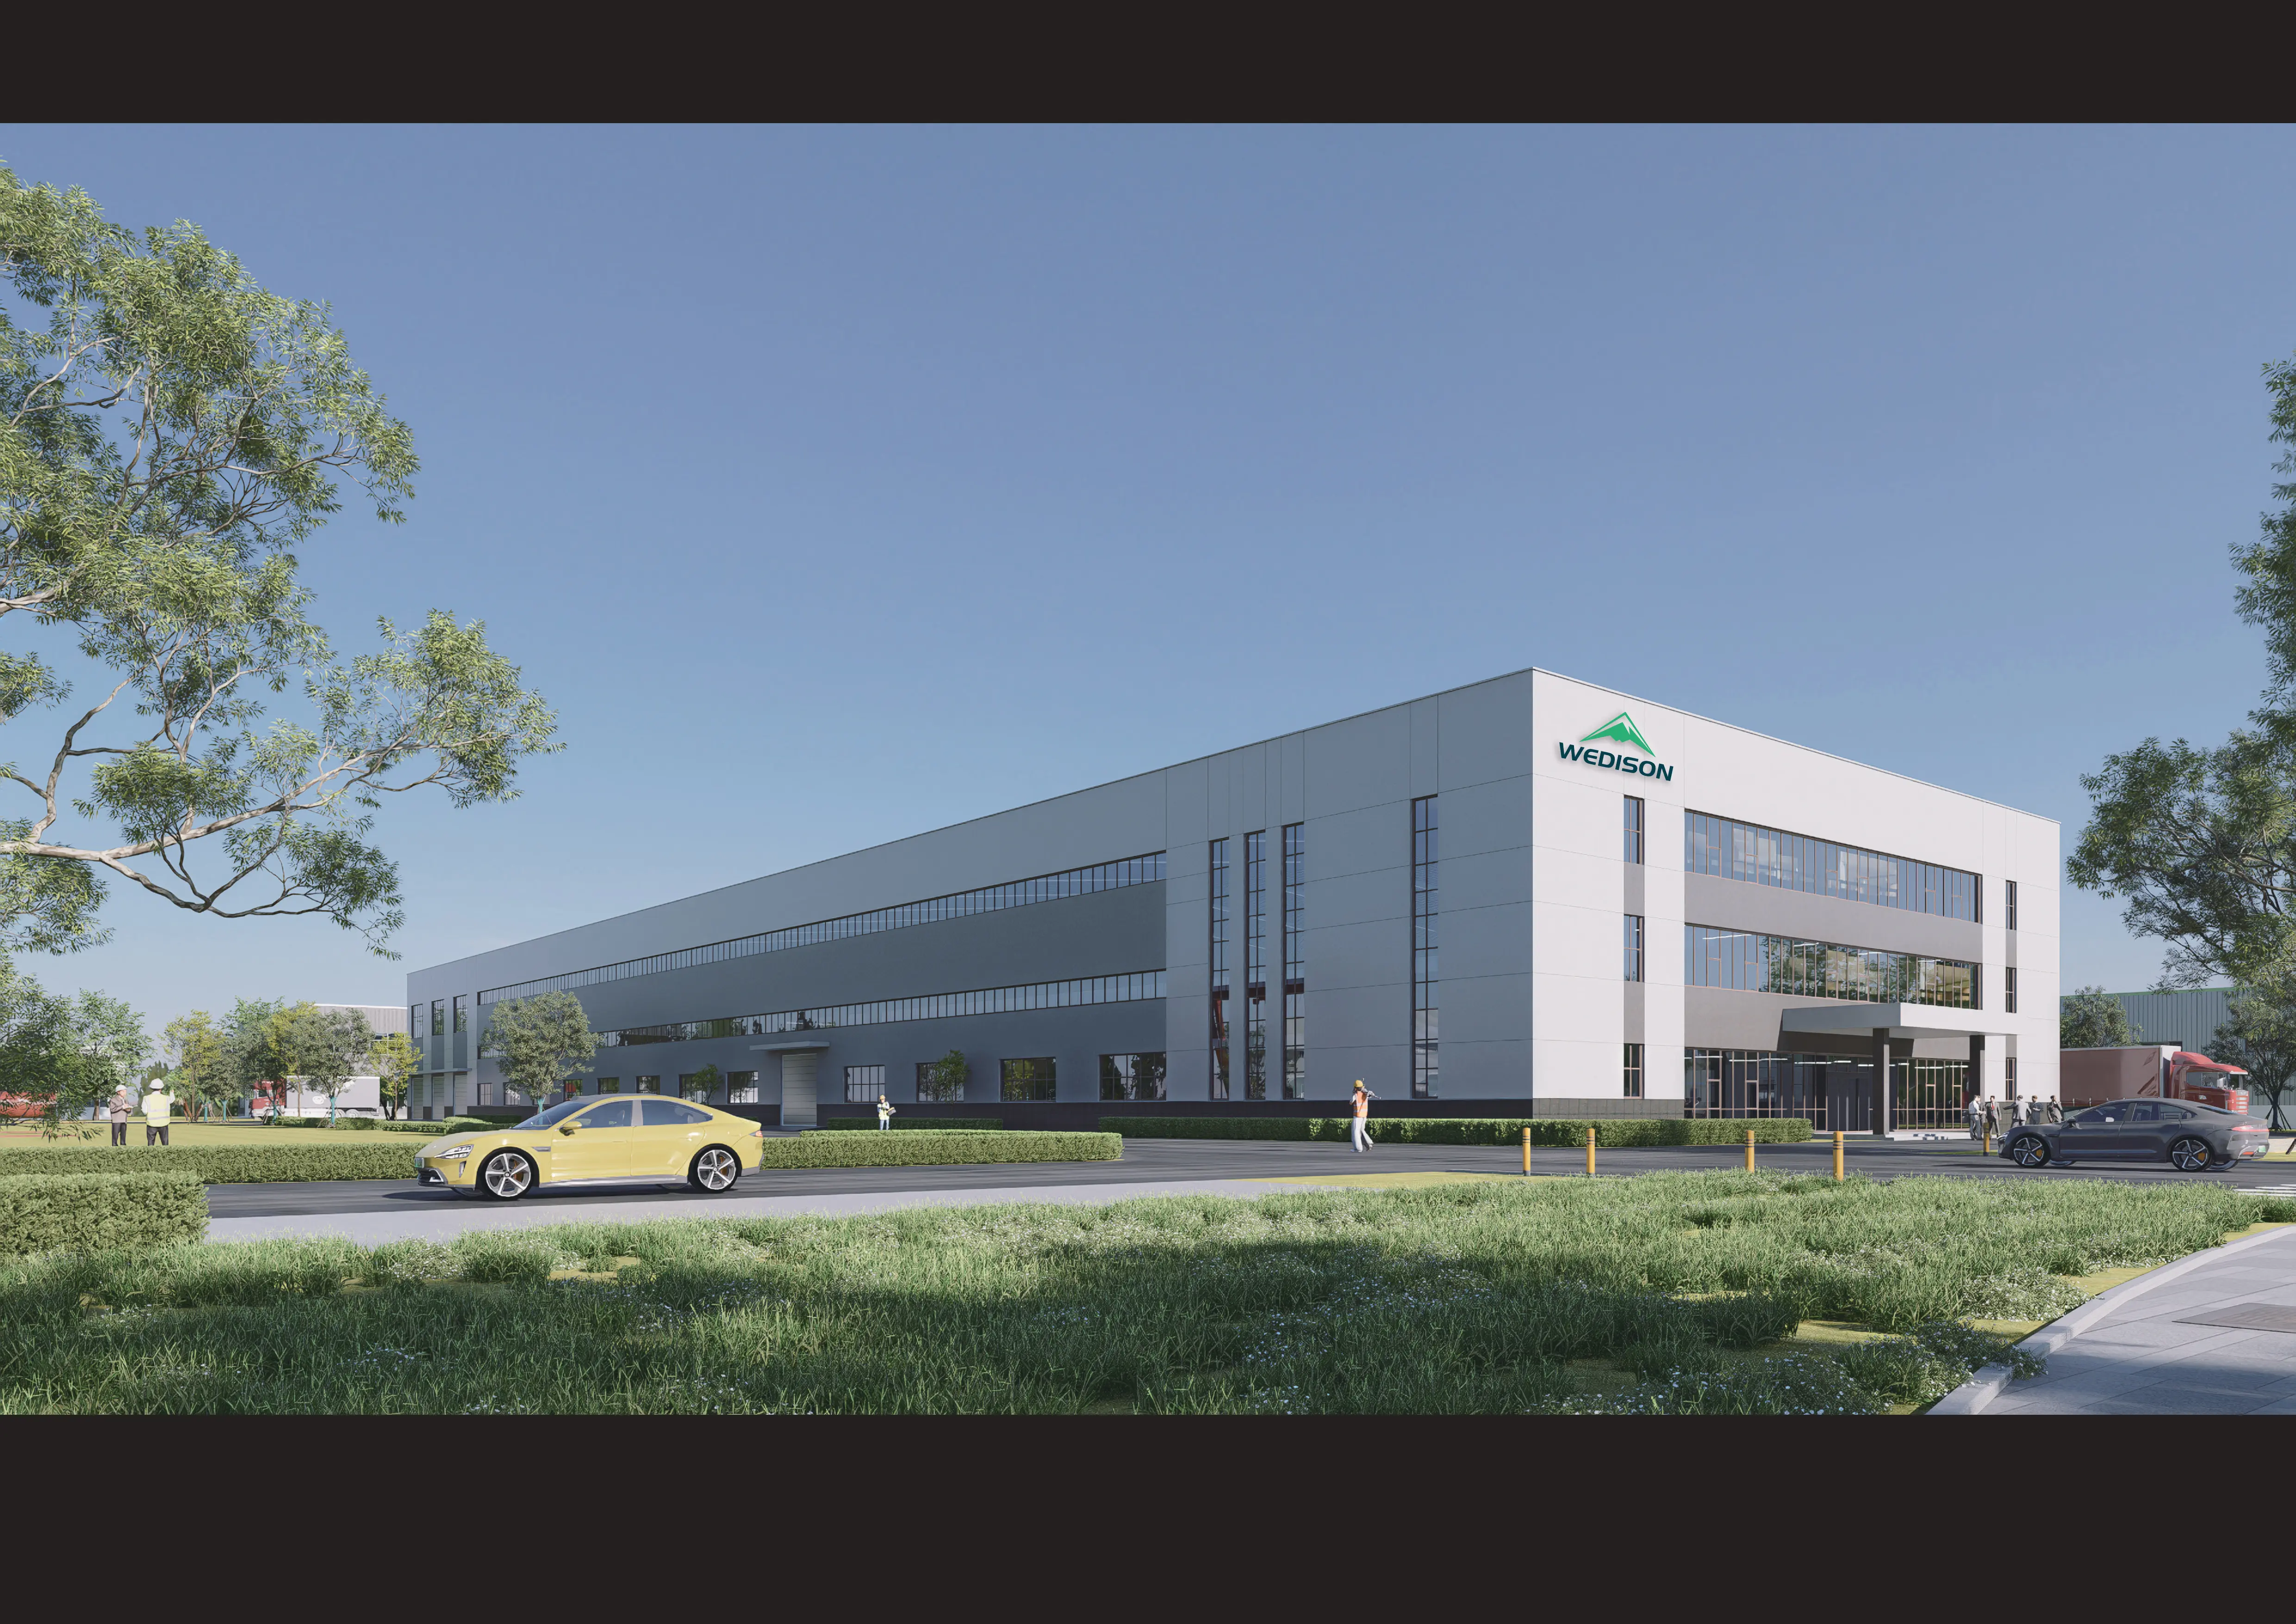
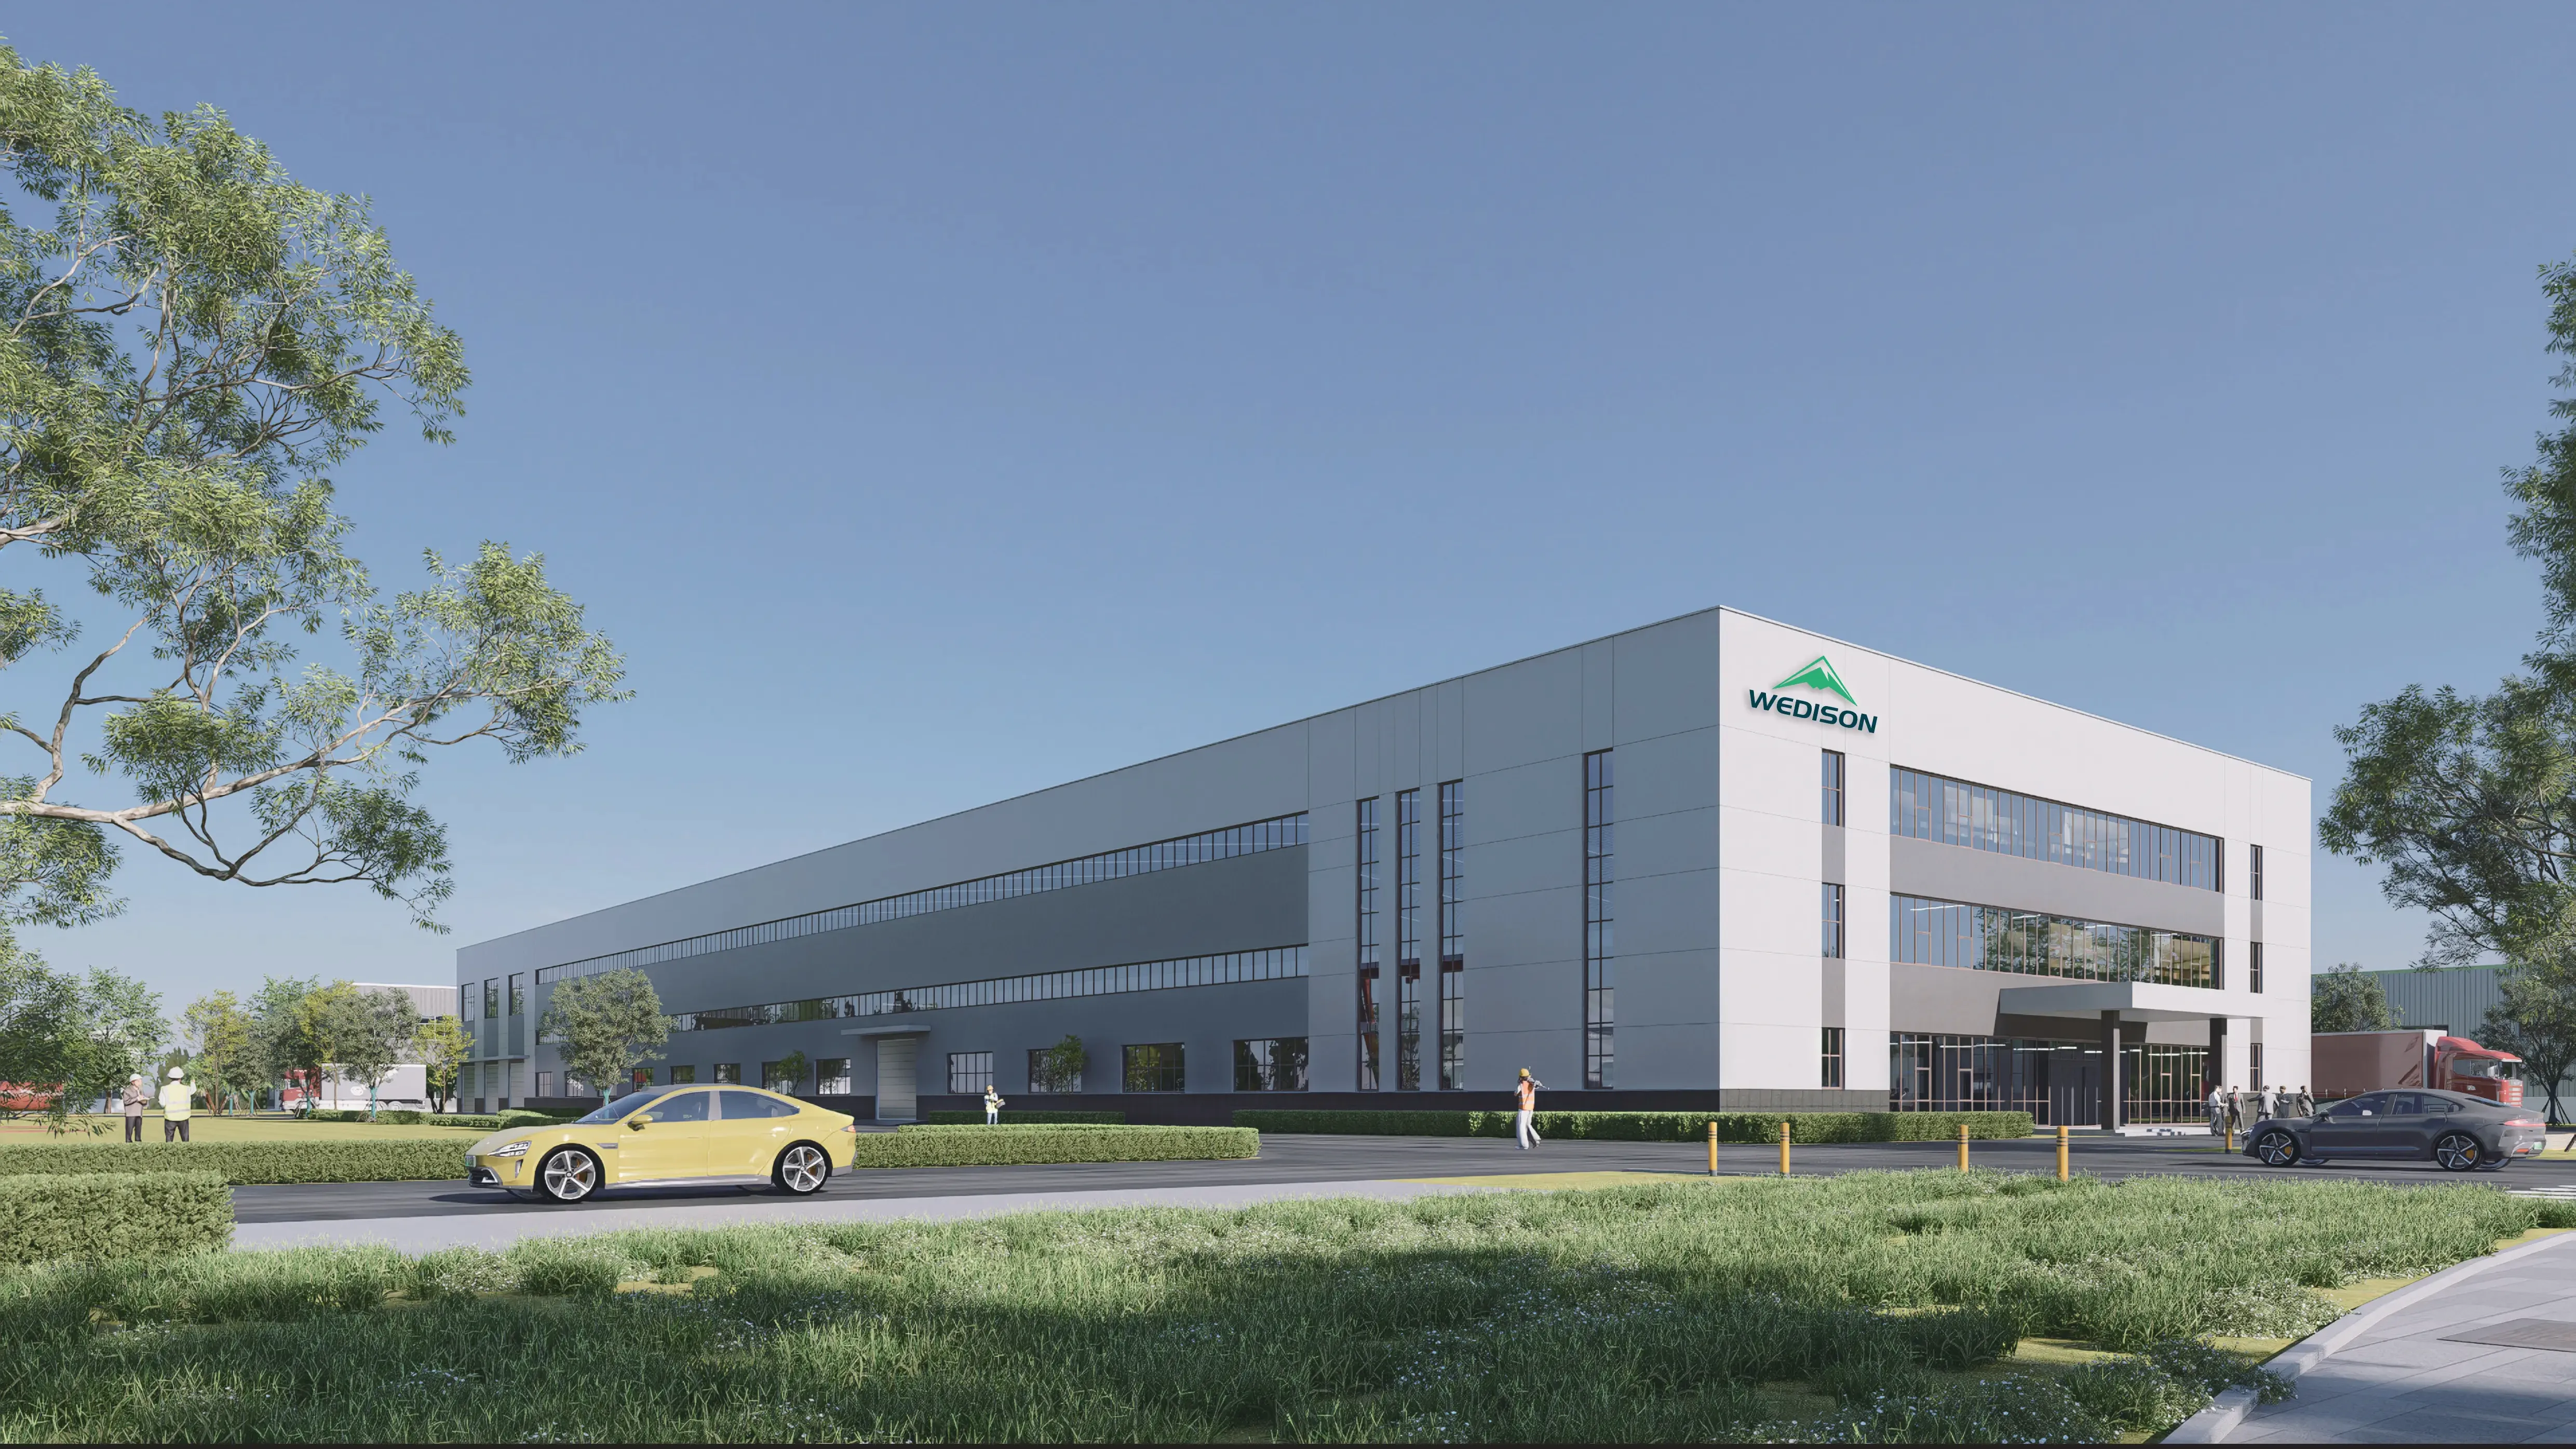
Responsive design fixing

diff --git a/src/app/corporate/about/structure.tsx b/src/app/corporate/about/structure.tsx
@@ -49,16 +49,16 @@ export default function AboutPage() {
   return (
     <main className="min-h-screen bg-white">
       {/* Hero Section with Image */}
-      <section className="pt-0 md:pt-24 bg-gradient-to-b from-gray-50 to-white">
-        <div className="container mx-auto px-4 sm:px-6 lg:px-8 py-16 md:py-20 lg:py-24">
+      <section className="pt-0 2xl:pt-24 bg-gradient-to-b from-gray-50 to-white">
+        <div className="container mx-auto px-4 sm:px-6 lg:px-8 py-16 md:py-20 lg:py-16">
           <div className="grid grid-cols-1 lg:grid-cols-2 gap-8 md:gap-12 items-center">
             <div>
-              <div className="text-center mb-8 md:mb-12">
+              <div className="text-center mb-8 md:mb-0">
                 <div className="inline-block px-4 py-1 mb-4 border border-teal-200 rounded-full bg-teal-50 text-teal-600">
                   <span className="text-sm font-medium">{t("about.tag")}</span>
                 </div>
 
-                <h1 className="text-3xl sm:text-4xl md:text-5xl lg:text-6xl font-bold text-gray-900 mb-6">
+                <h1 className="text-3xl sm:text-4xl md:text-4xl 2xl:text-6xl font-bold text-gray-900 mb-6">
                   {t("about.title")}{" "}
                   <span className="bg-gradient-to-r from-teal-500 to-teal-400 bg-clip-text text-transparent relative">
                     {t("about.titleHighlight")}
@@ -67,14 +67,14 @@ export default function AboutPage() {
                 </h1>
               </div>
 
-              <div className="bg-white rounded-xl shadow-soft p-6 md:p-8">
-                <h2 className="text-2xl md:text-3xl font-bold text-gray-900 mb-4 bg-gradient-to-r from-teal-500 to-teal-400 bg-clip-text">
+              <div className="bg-white rounded-xl shadow-soft p-6 2xl:p-8">
+                <h2 className="text-xl 2xl:text-3xl font-bold text-gray-900 mb-4 bg-gradient-to-r from-teal-500 to-teal-400 bg-clip-text">
                   {t("about.overview.title")}
                 </h2>
-                <p className="text-gray-700 mb-4 text-base md:text-lg leading-relaxed">
+                <p className="text-gray-700 mb-4 text-base 2xl:text-lg leading-relaxed">
                   {t("about.overview.p1")}
                 </p>
-                <p className="text-gray-700 text-base md:text-lg leading-relaxed">
+                <p className="text-gray-700 text-base 2xl:text-lg leading-relaxed">
                   {t("about.overview.p2")}
                 </p>
               </div>
@@ -86,7 +86,7 @@ export default function AboutPage() {
               <Image
                 src={"/wedison-factory.webp"}
                 alt=" Wedison Factory"
-                className="w-full h-full object-fill object-center z-50"
+                className="w-full h-full object-cover object-center z-50"
                 width={9000}
                 height={1000}
               />

diff --git a/src/app/components/hero-section.tsx b/src/app/components/hero-section.tsx
@@ -43,7 +43,7 @@ export default function HeroSection({
         width={9000}
         height={1000}
         className={cn(
-          "object-cover inset-0 h-[100vh] lg:object-[0%_100%] object-[75%_100%]",
+          "object-cover inset-0 h-[100vh] 2xl:object-[80%_100%] object-[75%_75%]",
           imageStyle
         )}
       />
@@ -53,10 +53,10 @@ export default function HeroSection({
       {/* Hero content */}
       <div className="container mx-auto px-4 sm:px-6 lg:px-8 absolute z-20 left-0 md:left-15">
         {/* <div className="container mx-auto px-4 sm:px-6 lg:px-8 relative z-10"> */}
-        <div className=" grid grid-cols-1 lg:grid-cols-2 gap-8 md:gap-12 items-center pb-20">
+        <div className=" grid grid-cols-1 lg:grid-cols-[1fr_2fr] 2xl:grid-cols-2 gap-8 md:gap-12 items-center pb-20">
           <div
             className={cn(
-              "transition-all duration-1000 transform order-1 lg:order-0",
+              "transition-all duration-1000 transform order-1 lg:order-0 ",
               isVisible
                 ? "opacity-100 translate-y-0"
                 : "opacity-0 translate-y-16"
@@ -75,12 +75,13 @@ export default function HeroSection({
 
             <h1
               className={cn(
-                "text-3xl sm:text-4xl md:text-5xl lg:text-6xl font-bold leading-tight text-white mb-4 md:mb-6",
+                "text-3xl sm:text-4xl md:text-4xl lg:text-4xl 2xl:text-6xl font-bold leading-tight text-white mb-4 md:mb-6",
+                // "text-3xl sm:text-4xl md:text-5xl lg:text-6xl font-bold leading-tight text-white mb-4 md:mb-6",
                 theme === "dark" ? dark.titleStyle : light.titleStyle
               )}
             >
               {t(`${name}.hero.title`)}{" "}
-              <span className="bg-gradient-to-r from-teal-500 to-teal-400 bg-clip-text text-transparent relative">
+              <span className="bg-gradient-to-r from-teal-400 to-teal-300 bg-clip-text text-transparent relative">
                 {t(`${name}.hero.titleHighlight`)}
                 <span className="absolute -bottom-1 left-0 w-full h-0.5 bg-teal-400"></span>
               </span>
@@ -88,7 +89,8 @@ export default function HeroSection({
 
             <p
               className={cn(
-                "text-base sm:text-lg md:text-xl text-gray-300 mb-6 md:mb-8 max-w-lg",
+                "text-base sm:text-md md:text-lg 2xl:text-xl text-gray-300 mb-6 md:mb-8 max-w-lg",
+                // "text-base sm:text-lg md:text-xl text-gray-300 mb-6 md:mb-8 max-w-lg",
                 theme === "dark"
                   ? dark.descriptionStyle
                   : light.descriptionStyle

diff --git a/src/app/components/hero2.tsx b/src/app/components/hero2.tsx
@@ -45,7 +45,7 @@ export default function Hero() {
               <span className="text-sm font-medium">{t("hero.tag")}</span>
             </div>
 
-            <h1 className="text-3xl sm:text-4xl md:text-5xl lg:text-6xl font-bold leading-tight text-gray-900 mb-4 md:mb-6">
+            <h1 className="text-3xl sm:text-4xl md:text-5xl 2xl:text-6xl font-bold leading-tight text-gray-900 mb-4 md:mb-6">
               {t("hero.title")}{" "}
               {/* <span className="bg-gradient-to-r text-shadow-lg from-teal-500 to-teal-400 bg-clip-text text-transparent relative"> */}
               <span className="bg-gradient-to-r from-[var(--primary)] to-[var(--primary-light)] bg-clip-text text-transparent relative">
@@ -54,7 +54,7 @@ export default function Hero() {
               </span>
             </h1>
 
-            <p className="text-base sm:text-lg md:text-xl text-gray-600 mb-6 md:mb-8 max-w-lg">
+            <p className="text-base sm:text-lg 2xl:text-xl text-gray-600 mb-6 md:mb-8 max-w-lg">
               {t("hero.description")}
             </p>
 
@@ -88,7 +88,8 @@ export default function Hero() {
             )}
           >
             {/* Motorcycle image */}
-            <div className="relative h-[250px] sm:h-[350px] md:h-[400px] lg:h-[500px] w-full mb-5 lg:mt-0">
+            <div className="relative h-[250px] sm:h-[350px] md:h-[400px] 2xl:h-[450px] w-full mb-5 2xl:mt-0">
+              {/* <div className="relative h-[250px] sm:h-[350px] md:h-[400px] lg:h-[450px] w-full mb-5 lg:mt-0"> */}
               <div className="absolute top-1/2 left-1/2 transform -translate-x-1/2 -translate-y-1/2 w-full h-full rounded-xl">
                 {/* <div> */}
                 <Image
@@ -112,7 +113,7 @@ export default function Hero() {
 
       {/* Decorative shapes */}
       <div className="absolute bottom-0 left-0 w-full h-20 bg-gradient-to-t from-white to-transparent"></div>
-      <div className="hidden md:absolute bottom-6 left-1/2 transform -translate-x-1/2 md:flex flex-col items-center">
+      <div className="hidden md:absolute bottom-6 left-1/2 transform -translate-x-1/2 2xl:flex flex-col items-center">
         <span className="text-sm text-gray-400 mb-2">Scroll to explore</span>
         <div className="w-6 h-10 border-2 border-gray-400 rounded-full flex justify-center">
           <div className="w-1.5 h-3 bg-gray-400 rounded-full mt-2 animate-bounce" />

diff --git a/next-sitemap.config.js b/next-sitemap.config.js
@@ -1,12 +1,13 @@
 /** @type {import('next-sitemap').IConfig} */
 module.exports = {
-  siteUrl: process.env.NEXT_PUBLIC_SITE_URL || "https://wedison.co", // Ganti ke domain kamu nanti
-  generateRobotsTxt: true, // Biar sekalian generate robots.txt
+  siteUrl: process.env.NEXT_PUBLIC_SITE_URL || "https://wedison.co",
+  sitemapSize: 7000,
+  generateRobotsTxt: true,
   robotsTxtOptions: {
     policies: [
       {
         userAgent: "*",
-        allow: "/", // Semua halaman boleh di-crawl
+        allow: "/",
       },
     ],
   },

diff --git a/src/app/corporate/contact/structure.tsx b/src/app/corporate/contact/structure.tsx
@@ -87,8 +87,8 @@ export default function ContactPage() {
   return (
     <main className="min-h-screen bg-white">
       {/* Hero Section */}
-      <section className="pt-20 md:pt-24 bg-gradient-to-b from-gray-50 to-white">
-        <div className="container mx-auto px-4 sm:px-6 lg:px-8 py-16 md:py-20">
+      <section className="pt-8 2xl:pt-24 bg-gradient-to-b from-gray-50 to-white">
+        <div className="container mx-auto px-4 sm:px-6 lg:px-8 py-0 2xl:py-20">
           <div className="text-center max-w-3xl mx-auto">
             <div className="inline-block px-4 py-1 mb-4 border border-teal-200 rounded-full bg-teal-50 text-teal-600">
               <span className="text-sm font-medium">{t("contact.tag")}</span>

diff --git a/src/app/super-charge/page.tsx b/src/app/super-charge/page.tsx
@@ -27,7 +27,7 @@ export default function EdmaxPage() {
           name="supercharge"
           imageAlt="Super Charge Charging Station"
           theme="light"
-          imageStyle=" lg:object-[0%_60%] "
+          imageStyle=" md:object-[0%_40%] 2xl:object-[0%_60%] "
         />
         <FeatureSection2
           page="supercharge"